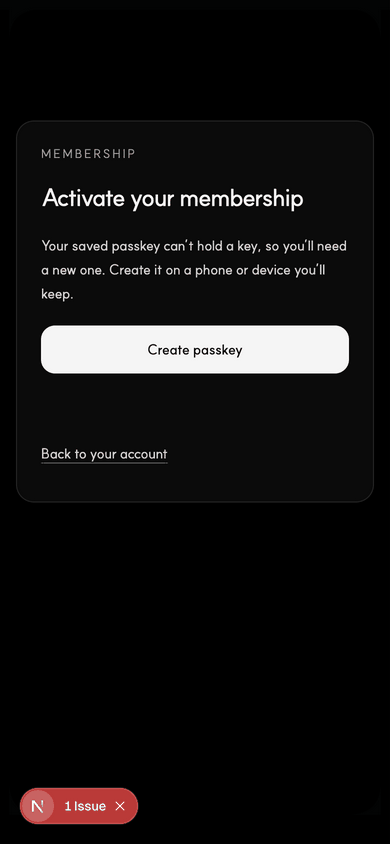
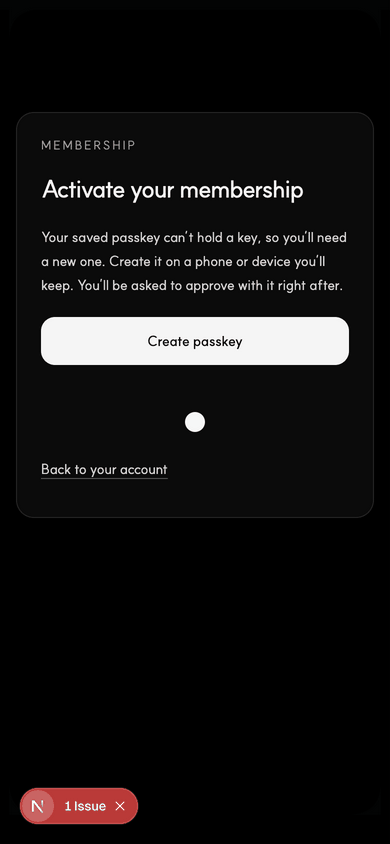
docs(wallet): round 3 re-shoot from 4d4bff2 and handback; paused for the owner's membership re-lay

diff --git a/docs/qa/wallet-activation-20261116/handback.md b/docs/qa/wallet-activation-20261116/handback.md
@@ -1,6 +1,6 @@
 # SPH-WALLET-ACTIVATION-20261116-01: handback
 
-**State: in progress (Santa round 2 partial: items 1–3, minor and Codex b–d done; Codex a and the re-shoot remain).** It meets acceptance criteria 1–4, with the limits stated below. The live render covers all seven page states, and the seven security review items are fixed; both are described below. It merges into `codex/auth-payment-nfc`, not `main`.
+**State: paused 2026-11-16: owner is re-laying the membership flow (wallet created at payment, passkey optional); round 3 items 1 and 2 done, DB proof not run, Santa round 3 not started.** It merges into `codex/auth-payment-nfc`, not `main`.
 
 - Branch `codex/wallet-activation-20261116`. Orca created it as `xnxchoi/…`; I renamed it as my first action, as the coordinator asked.
 - Base `4657dbb`. The candidate commit follows this file.
@@ -16,7 +16,7 @@
 | Types | `src/payload-types.ts` regenerated, with additions in the two new collections only; generator formatting is kept, not Prettier's. `payload-generated-schema.ts` (root and `src/`) is **byte-identical**. |
 | WebAuthn | `src/lib/member-auth/wallet/credentials.ts` (via `@simplewebauthn/server`). ES256 only, with user verification required. Keys are decoded with the library's COSE helpers and checked on-curve with `node:crypto`. |
 | Safe prediction | `src/lib/member-auth/wallet/safe.ts` (via `@safe-global/protocol-kit`). Read-only RPC. The SDK's two derivations must agree. A config hash covers chain, version, salt, verifier, proxy factory, singleton, coordinates, owner and address. No deploy, sign or send path exists; a static test guards this. |
-| Activation service | `src/lib/member-auth/wallet/activation.ts`: register options/verify, bind options/verify. Challenges are single-use and bound to purpose, member and session. Identity comes from the fresh canonical session on every call. Eligibility (verified email, not suspended, a live member intent whose payment succeeded) is rechecked at completion. |
+| Activation service | `src/lib/member-auth/wallet/activation.ts`: register options/verify, bind options/verify. `bind/options` offers every passkey the member can bind with, and `bind/verify` accepts any one of them (round 3). Challenges are single-use and bound to purpose, member and session. Identity comes from the fresh canonical session on every call. Eligibility (verified email, not suspended, a live member intent whose payment succeeded) is rechecked at completion. |
 | Attach | `src/lib/commerce/keys/activation.ts`, called from `recordKeyGrantIntents`. Details below. |
 | Routes | `src/app/api/member/wallet/{status,register/options,register/verify,bind/options,bind/verify}/route.ts` through `wallet/http.ts`. Same-origin only; 16 KiB JSON bodies; per-member rate limit; private, no-store responses. GET status never activates. |
 | Page | `src/app/(site)/account/activate/page.tsx` and `src/components/commerce/wallet-activation.tsx`. |
@@ -51,7 +51,7 @@ The page sits under the account it belongs to, and the path names the one thing 
 | # | Criterion | Evidence |
 | --- | --- | --- |
 | 1 | Registration and bind | `tests/member-auth/wallet/activation.test.ts`, using real ES256/RS256 signatures from a software authenticator (`webauthn-fixture.ts`). An ES256 wallet passkey registers, binds once and attaches; replaying the assertion is rejected. A reused ES256 sign-in passkey binds. Registration and bind challenges can't stand in for each other, and an unknown challenge is rejected. RS256 is rejected both for registration and for reuse, with the sign-in passkey left intact. Another member, or another session of the same member, is rejected. |
-| 2 | One wallet | Same test file: the same wallet replays to `{replay: true}` with no new prediction. While a wallet is active, register is refused (`WALLET_ACTIVE`); a different credential is refused at options and at verify (`WALLET_CONFLICT`). The PostgreSQL proof shows the database refusing a second active wallet. |
+| 2 | One wallet | Same test file: the same wallet replays to `{replay: true}` with no new prediction. While a wallet is active, register is refused (`WALLET_ACTIVE`); once one is active, `bind/options` offers only that wallet, so another passkey is refused at verify (`INVALID_CHALLENGE`), and a challenge issued before activation for a different passkey is refused at verify (`WALLET_CONFLICT`). The PostgreSQL proof shows the database refusing a second active wallet. |
 | 3 | Attach | `tests/commerce/keys/activation.test.ts` (fake storage) and `tests/commerce/keys/wallet-activation.db.test.ts` (**disposable PostgreSQL**, real settle path). Activation attaches the eligible intent. A settlement started while activation holds the lock waits on it, and attaches immediately after activation commits. Held (admission review) and cancelled intents are untouched. Catch-up attaches once the hold clears. A wallet can't be retired, retargeted or written without the capability. |
 | 4 | Page and links | `tests/commerce/ui/wallet-activation-dom.test.tsx`: every state renders with its next step; approve and create flows; cancelled, incompatible and unsupported prompts; conflict and expired sign-in; account link (including the sign-in-again return); ticket payment confirmation link; shop confirmation link. |
 
@@ -107,6 +107,78 @@ I wrote the tests first. Against the committed `31ddea3` source, the new tests g
    - *Not genuinely red.* The test passed on the old code too, because the old code already checked expiry before verifying. The change is that the check now happens at consume time, under the lock.
 
 **Migration.** Regenerated in place as one additive migration (`20261115_201256_member_wallets`), replacing the unmerged `20261115_180919` one. Its JSON snapshot shows `member_id` nullable, `wallet_key` not unique, and unique `active_wallet_key` and `member_wallet_key`. The `down` order and whitespace are normalised as before. `payload-types.ts` was regenerated, and `payload-generated-schema.ts` is unchanged.
+
+## Round 3 (task_d25b2a9b27eb)
+
+Each change has its own commit with its test, and both tests were red first.
+
+| Item | Commit | Change |
+| --- | --- | --- |
+| Codex a: offer every passkey | `f6e4d18` | `bind/options` takes no input. It offers every credential this member can bind with, each with its own Safe candidate, in one challenge. `bind/verify` accepts any one of them. Details below. |
+| Render finding | `4d4bff2` | The two-line status slot is reserved only in states whose buttons can report a result. "Signed out" and "Nothing to activate" offer links only, so they no longer show an empty 60 px band (signed out at 1280 px: 374 → 314 px). |
+| Re-shoot | docs commit | All stale PNGs deleted. Every state re-shot at 390 and 1280 px in one pass from `4d4bff2`. See "Live render" below. |
+
+### Every compatible passkey (Codex a)
+
+- **What is offered.**
+  - Once a wallet is active on the chain, only that wallet is offered (a replay, with no new prediction).
+  - Otherwise: every pending wallet passkey on the chain, then every ES256 sign-in passkey, deduplicated by credential ID and capped at `MAX_BIND_CREDENTIALS` (10).
+  - "User verification": the options require it (`userVerification: "required"`) and verify enforces it (`requireUserVerification`). Stored sign-in passkeys carry no UV flag, so this is checked on the assertion itself.
+  - "Not revoked": the row still exists. Sign-in passkeys have no revoked field (removal deletes the row), and wallets are only pending or active.
+  - Predictions for sign-in passkeys run in parallel, outside any transaction. If any prediction fails, the request fails (`UNAVAILABLE`) rather than silently dropping a passkey.
+  - Under the member lock, a candidate whose Safe is already active for another member is dropped; if none is left, `WALLET_CONFLICT`. With no passkeys at all, `UNKNOWN_CREDENTIAL`; with passkeys but none ES256, `INCOMPATIBLE_CREDENTIAL`.
+  - After a new wallet passkey is registered, its bind challenge still offers only that new passkey, because the member approves with it next.
+- **The challenge.** It stays single-use and bound to purpose, member and session. The offered set is stored in the challenge's existing `candidate` json column, with `candidateDigest` a SHA-256 over the sorted `credentialID:configHash` pairs. Verify picks the candidate whose credential ID equals the response, rechecks the digest and that candidate's config hash, then runs the unchanged active/pending/verify path. A credential outside the set is `INVALID_CHALLENGE` (the challenge is burned).
+- **No migration.** The challenge's `credentialID` column is now unused on bind challenges (left null). Dropping it belongs in the schema-freeze migration.
+- **Behaviour change.** "Another passkey while a wallet is active" used to fail at options (`WALLET_CONFLICT`); now options offer only the active wallet, and the other passkey fails at verify (`INVALID_CHALLENGE`). A challenge issued before activation for another passkey still fails with `WALLET_CONFLICT`.
+- **No page picker.** The browser's own chooser already lists every offered credential and offers "use another device". The page can't tell which device holds which passkey, and sign-in passkeys have no name to show, so a page picker would add a step without information. The page no longer sends a credential ID.
+- **Test (red first).** `bind options offer every compatible passkey, and verify accepts whichever one the member picks`, in `tests/member-auth/wallet/activation.test.ts`. Red on behaviour: `UNKNOWN_CREDENTIAL`. It seeds two ES256 sign-in passkeys, one RS256 passkey and a pending wallet passkey, then checks:
+  - exactly the three compatible credentials are offered, and user verification is required;
+  - another session is refused without burning the challenge;
+  - a passkey added after the options were issued is refused, and that burns the challenge;
+  - the member then picks the second sign-in passkey, and that passkey's Safe becomes the active wallet;
+  - the used challenge can't be replayed.
+- **Live.** The `activation-required` render member has two ES256 passkeys. Every Approve in the render offered both (`allowCredentials` length 2), and the success bound the second one (`credentialSource` `sign_in_passkey`, intent `pending`). Each bind challenge row held a two-entry JSON array in PostgreSQL.
+
+### ADR-0012 copy check
+
+ADR-0012 makes the event ticket the door entry; the Signet key is the membership. I searched `messages/en.json` for any string that pairs a key, passkey, membership, wallet or token with door, entry, check-in, admit, scan or venue wording, and listed every string that mentions the key. None says or implies that the wallet key gets the member in at the door. The activation copy only says the key is issued to the passkey. **The copy is unchanged.**
+
+### Re-shoot (round 3)
+
+All PNGs from rounds 1 and 2 were deleted. Every state was shot at 390 and 1280 px in one pass from `4d4bff2`, on a guarded dev server on port 3417 against disposable PostgreSQL 16 (port 55494, removed afterwards), seeded through Payload. Every card top is 112 px; every control is 48 px; `scrollWidth` equals the viewport everywhere.
+
+| State | Captures | Card top / height at 390 (Δ vs baseline) | at 1280 (Δ) |
+| --- | --- | --- | --- |
+| Signed out | `signed-out-{390,1280}` | 112 / 298 (-192) | 112 / 314 (-168) |
+| No entitlement | `no-entitlement-{390,1280}` | 112 / 322 (-168) | 112 / 314 (-168) |
+| Activation required, two ES256 passkeys (baseline) | `activation-required-{390,1280}` | 112 / 490 (+0) | 112 / 482 (+0) |
+| Activation required, no passkey (createBody) | `create-new-{390,1280}` | 112 / 430 (-60) | 112 / 422 (-60) |
+| Incompatible (RS256 only) | `incompatible-{390,1280}` | 112 / 406 (-84) | 112 / 422 (-60) |
+| Approval pending | `approval-pending-{390,1280}` | 112 / 442 (-48) | 112 / 434 (-48) |
+| Key pending | `key-pending-{390,1280}` | 112 / 254 (-236) | 112 / 270 (-212) |
+| Key issued | `key-issued-{390,1280}` | 112 / 230 (-260) | 112 / 246 (-236) |
+| On hold | `on-hold-{390,1280}` | 112 / 278 (-212) | 112 / 270 (-212) |
+| Reauth (session over 15 min) | `reauth-{390,1280}` | 112 / 406 (-84) | 112 / 398 (-84) |
+| Unavailable (no lock address) | `unavailable-{390,1280}` | 112 / 382 (-108) | 112 / 374 (-108) |
+| errorUnknown with Check again (verify response dropped in the page) | `flow-approve-unknown-{390,1280}` | 112 / 550 (+60) | 112 / 542 (+60) |
+| Cancelled approval (two-line message) | `flow-approve-cancelled-{390,1280}` | 112 / 490 (+0) | 112 / 482 (+0) |
+| Success, in place | `flow-approve-success-{390,1280}` | 112 / 254 (-236) | 112 / 270 (-212) |
+| Signed-in account entry | `account-entry-signed-in-{390,1280}` | n/a (account tray, no activation card) | n/a |
+
+- The cancelled approval kept the card at 112 / 490 (390 px) and 112 / 482 (1280 px): the two-line message fits the reserved slot with no jump. The unknown result grows by 60 px because "Check again" is added; the top stays put.
+- **Setup notes.** As in round 1, one synthetic `canonical_member.phone_bindings` row per render member was inserted by direct SQL on the disposable database (not a Payload collection). The account's delete-passkey endpoint refused (403), so the no-passkey member's passkey was deleted through Payload's Local API with the server stopped. "Unavailable" needed a restart without `MEMBER_WALLET_LOCK_ADDRESS`. The dev-only challenge-hook artifact from round 1 recurred (503) and cleared after touching a server component, as before. Next restarted itself near its 3 GiB heap limit (the guard's cap); the guard's peak was 5.92 GiB, under 6 GiB. One focused test ran while the dev server was up, against the one-workload rule.
+- **Capture caveat.** In `activation-required-390` and `flow-approve-cancelled-390` the site's cursor dot sits over "Create a new passkey instead"; that member has since activated, so those two weren't re-shot.
+- The "Live render" and round-1 "Re-render" sections below describe earlier captures that no longer exist; this table supersedes them.
+
+### Gates (round 3, on `4d4bff2`)
+
+| Gate | Result |
+| --- | --- |
+| Typecheck | 0 errors |
+| Default suite | 3062 tests: **3014 pass, 2 fail** (the known deferred-styling tests), 46 skipped |
+| DB proof | **not run** (paused by the coordinator) |
+| Diff check | clean |
 
 ## Santa round 2 (task_fb23f7b54675): partial, stopped at the time box
 
